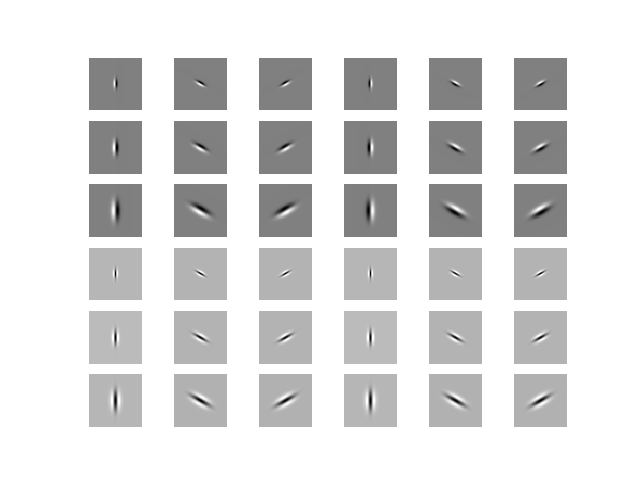
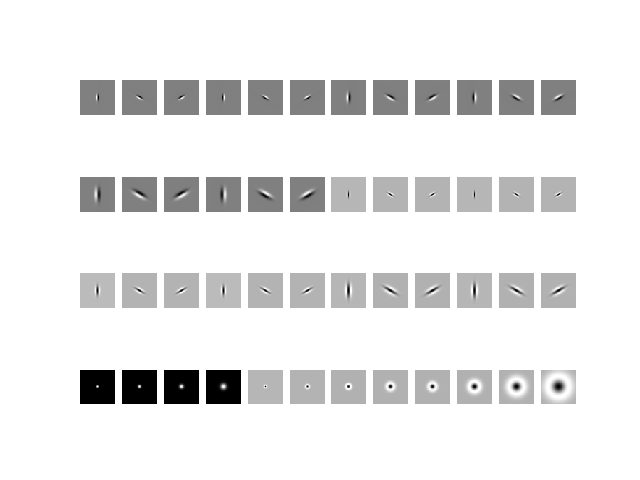
Complete implementation of LM filters with plot

diff --git a/Code/Wrapper.py b/Code/Wrapper.py
@@ -72,6 +72,9 @@ def gaussian_first_derivative(scale, rotated_points, kernel_length):
 	gaussian_x = (1/np.sqrt(2*np.pi*var_x))*(np.exp((-1*(x-mean)**2)/(2*var_x)))
 	gaussian_y = (1/np.sqrt(2*np.pi*var_y))*(np.exp((-1*(y-mean)**2)/(2*var_y)))
 	first_derivative_x = -gaussian_x*((x-mean)/(var_x))
+	# Gaussian can be denoted using the convolution of gaussian in x with 
+	# gaussian in y. Thus, using theory of convolution here d(x*y) = 
+	# (dx)*y where * is the convolution and d(x) is the derivative of x
 	image = first_derivative_x*gaussian_y
 	image = np.reshape(image, [kernel_length, kernel_length])
 	return image
@@ -86,9 +89,23 @@ def gaussian_second_derivative(scale, rotated_points, kernel_length):
 	gaussian_x = (1/np.sqrt(2*np.pi*var_x))*(np.exp((-1*(x-mean)**2)/(2*var_x)))
 	gaussian_y = (1/np.sqrt(2*np.pi*var_y))*(np.exp((-1*(y-mean)**2)/(2*var_y)))
 	second_derivative_x = gaussian_x*(((x-mean)**2 - var_x)/(var_x**2))
+	# Gaussian can be denoted using the convolution of gaussian in x with 
+	# gaussian in y. Thus, using theory of convolution here d(d(x*y)) = 
+	# (d2x)*y where * is the convolution and d(x) is the derivative of x
 	image = second_derivative_x*gaussian_y
 	image = np.reshape(image, [kernel_length, kernel_length])
 	return image
+
+def gaussian2D_lm(x, y, scale):
+	var = scale**2
+	gaussian = (1/np.sqrt(2*np.pi*var))*np.exp( -(x*x + y*y) / (2*var))
+	return gaussian
+
+def laplace_gaussian2D(x, y, scale):
+	var = scale**2
+	gaussian = (1/np.sqrt(2*np.pi*var))*np.exp( -(x*x + y*y) / (2*var))
+	double_derivative_gaussian = gaussian*((x*x + y*y) - var)/(var**2)
+	return double_derivative_gaussian
 
 def generate_lm_filter(number_orientations, scales, kernel_length=49):
 	
@@ -113,6 +130,14 @@ def generate_lm_filter(number_orientations, scales, kernel_length=49):
 											rotated_points, kernel_length)
 			count += 1
 
+	# Total images are 18 for 1st derivative and 18 for 2nd derivative => 36
+	count = 36
+	for scale in scales:
+		lm_filter_bank[:, :, count] = gaussian2D_lm(np.array(x), np.array(y), scale)
+		lm_filter_bank[:, :, 4 + count] = laplace_gaussian2D(np.array(x), np.array(y), scale)
+		lm_filter_bank[:, :, 8 + count] = laplace_gaussian2D(np.array(x), np.array(y), 3*scale)
+		count += 1
+
 	return lm_filter_bank
 	
 
@@ -128,8 +153,8 @@ def draw_dog_filters(dog_filter_bank, number_orientations, number_scales):
 	plt.close()
 
 def draw_lm_filter(lm_filter_bank, number_orientations, number_scales):
-	for i in range(0,36):
-		plt.subplot(6,6,i+1)
+	for i in range(0,48):
+		plt.subplot(4,12,i+1)
 		plt.axis('off')
 		plt.imshow(lm_filter_bank[:,:,i], cmap='gray')
 	plt.savefig('./lm_filter.png')
